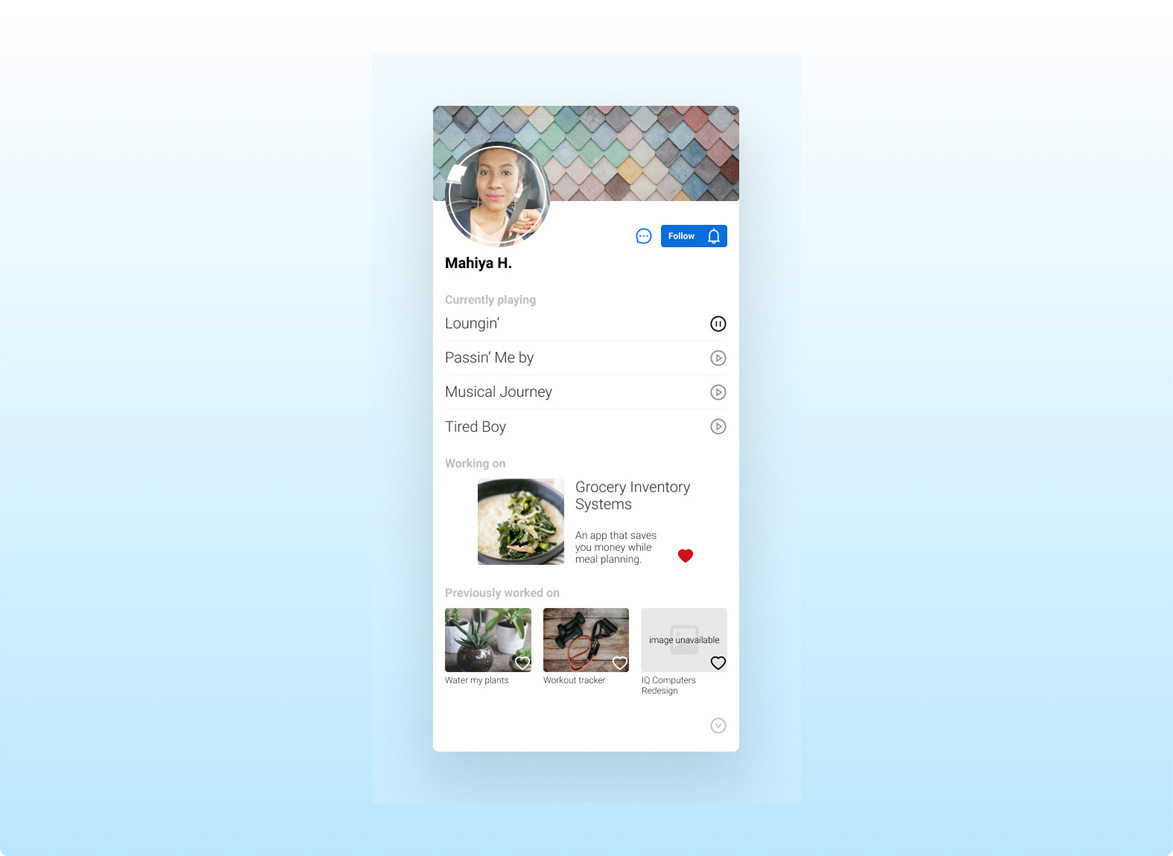
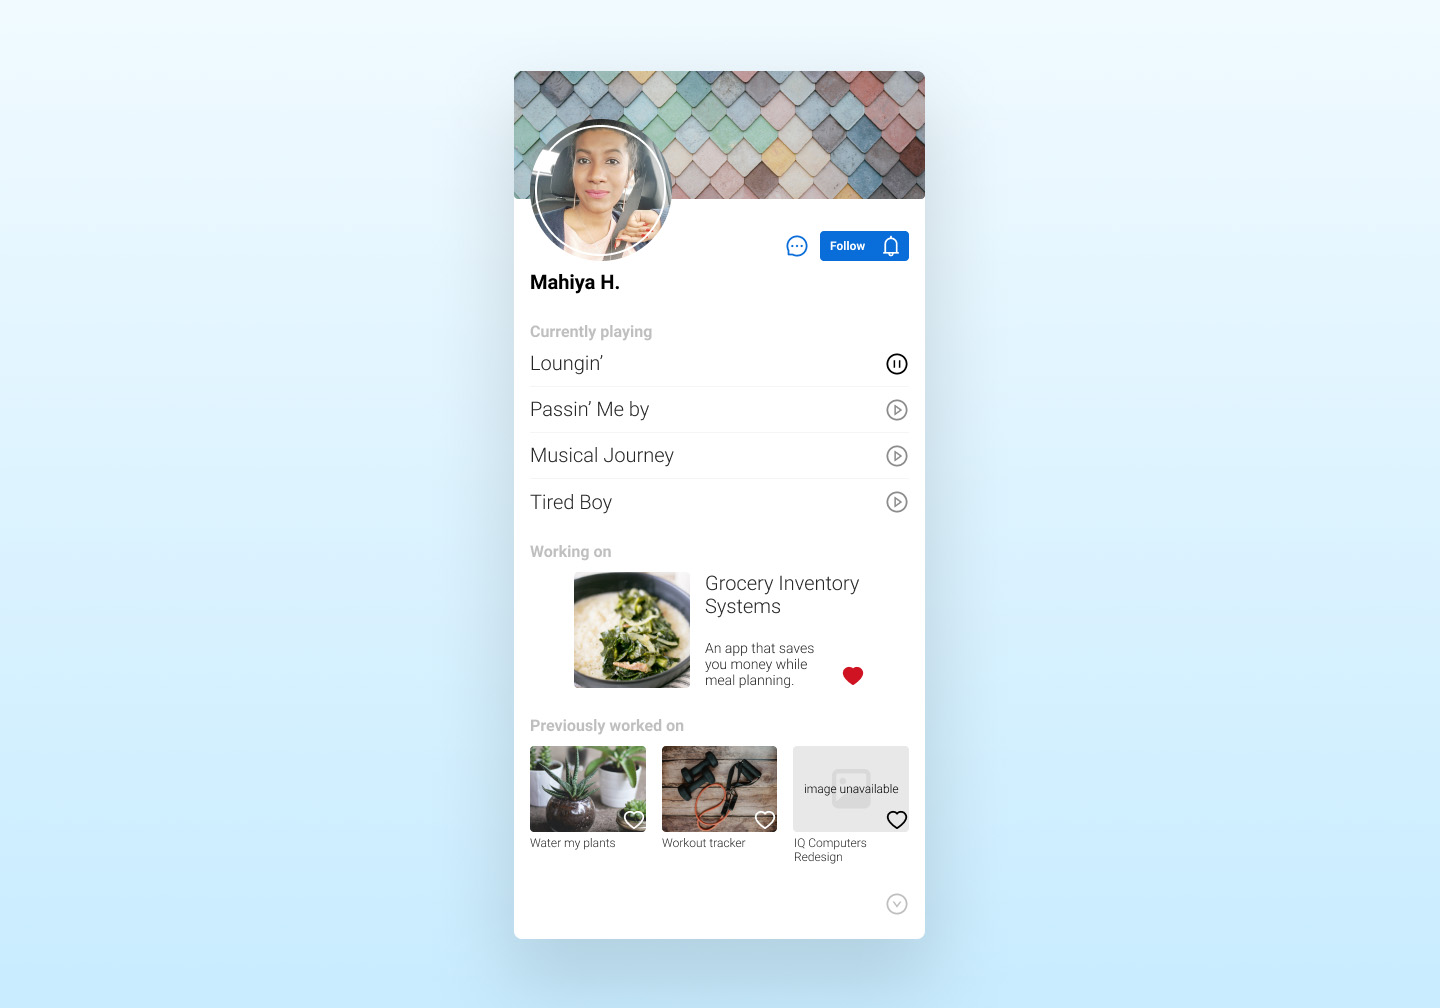
updated Exercises image ex3

Changed region(s): [[0.3376, 0.0607, 0.6445, 0.972]]

diff --git a/src/components/Exercises.js b/src/components/Exercises.js
@@ -1,7 +1,7 @@
 import React, { useEffect } from 'react'
 import ex1 from '../img/exercises/ex1.jpg'
-import ex2 from '../img/exercises/ex2.png'
-import ex3 from '../img/exercises/ex3.png'
+import ex2 from '../img/exercises/ex2.jpg'
+import ex3 from '../img/exercises/ex3.jpg'
 import '../styles/exercises.css'
 
 function Exercises() {
